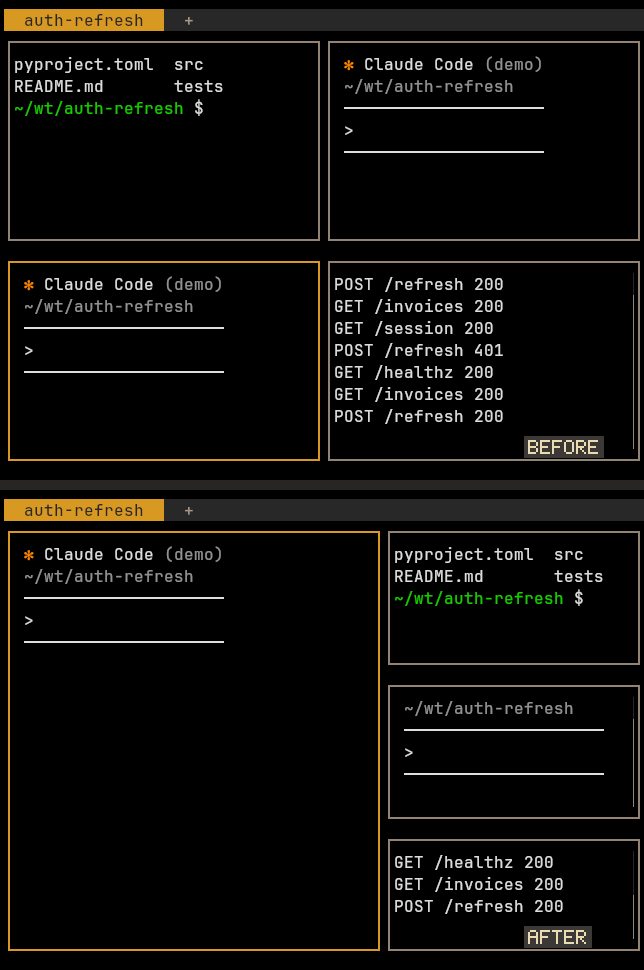
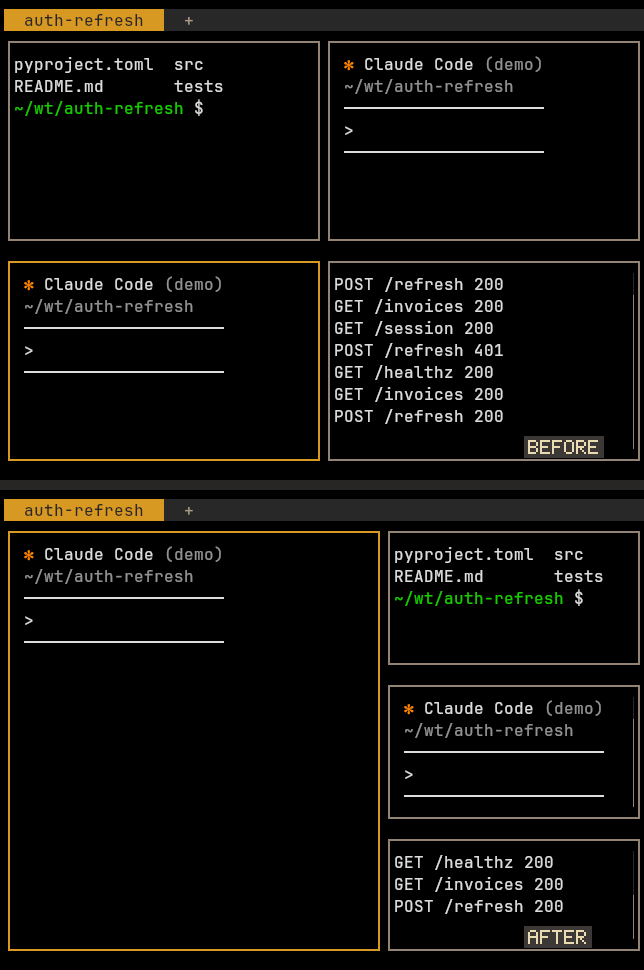
docs: stand-in agent redraws on resize; retake screenshots
The stub claude redraws its screen on SIGWINCH, so panes resized by heelr apply keep their banner.

Changed region(s): [[0.6211, 0.7113, 0.9317, 0.8041]]

diff --git a/tools/screenshots/stage.py b/tools/screenshots/stage.py
@@ -30,15 +30,22 @@ STUB_CLAUDE = r"""#!/bin/bash
 title=${STUB_TITLE:-$1}
 printf '\033]0;%s\007' "✳ $title"
 tilde='~'
-printf ' \033[38;5;208m✻\033[0m Claude Code \033[2m(demo)\033[0m\n \033[2m%s\033[0m\n' "${PWD/#$HOME/$tilde}"
 rule=$(printf '─%.0s' $(seq 20))
-printf ' %s\n > \n %s\n' "$rule" "$rule"
+SCREEN=$(printf ' \033[38;5;208m✻\033[0m Claude Code \033[2m(demo)\033[0m\n \033[2m%s\033[0m\n %s\n > \n %s\n' \
+  "${PWD/#$HOME/$tilde}" "$rule" "$rule")
+export SCREEN
+printf '%s\n' "$SCREEN"
 if [ "$1" = --resume ]; then   # what Claude's SessionStart hook reports (heelr sleep needs it)
   "${HERDR_BIN_PATH:-herdr}" pane report-agent-session "$HERDR_PANE_ID" --source herdr:claude --agent claude \
     --agent-session-id "$2" >/dev/null 2>&1
 fi
 printf '\033[?25l'   # no cursor under the prompt box
-exec -a claude python3 -c 'import signal, time; signal.signal(signal.SIGCHLD, signal.SIG_IGN); time.sleep(1e9)' "$@"
+# redraw the whole screen on resize (heelr apply resizes panes)
+exec -a claude python3 -c 'import os, signal, sys, time
+def redraw(*_):
+    sys.stdout.write("\033[?25l\033[H\033[2J" + os.environ["SCREEN"]); sys.stdout.flush()
+signal.signal(signal.SIGWINCH, redraw); signal.signal(signal.SIGCHLD, signal.SIG_IGN)
+while True: time.sleep(1e9)' "$@"
 """
 
 
